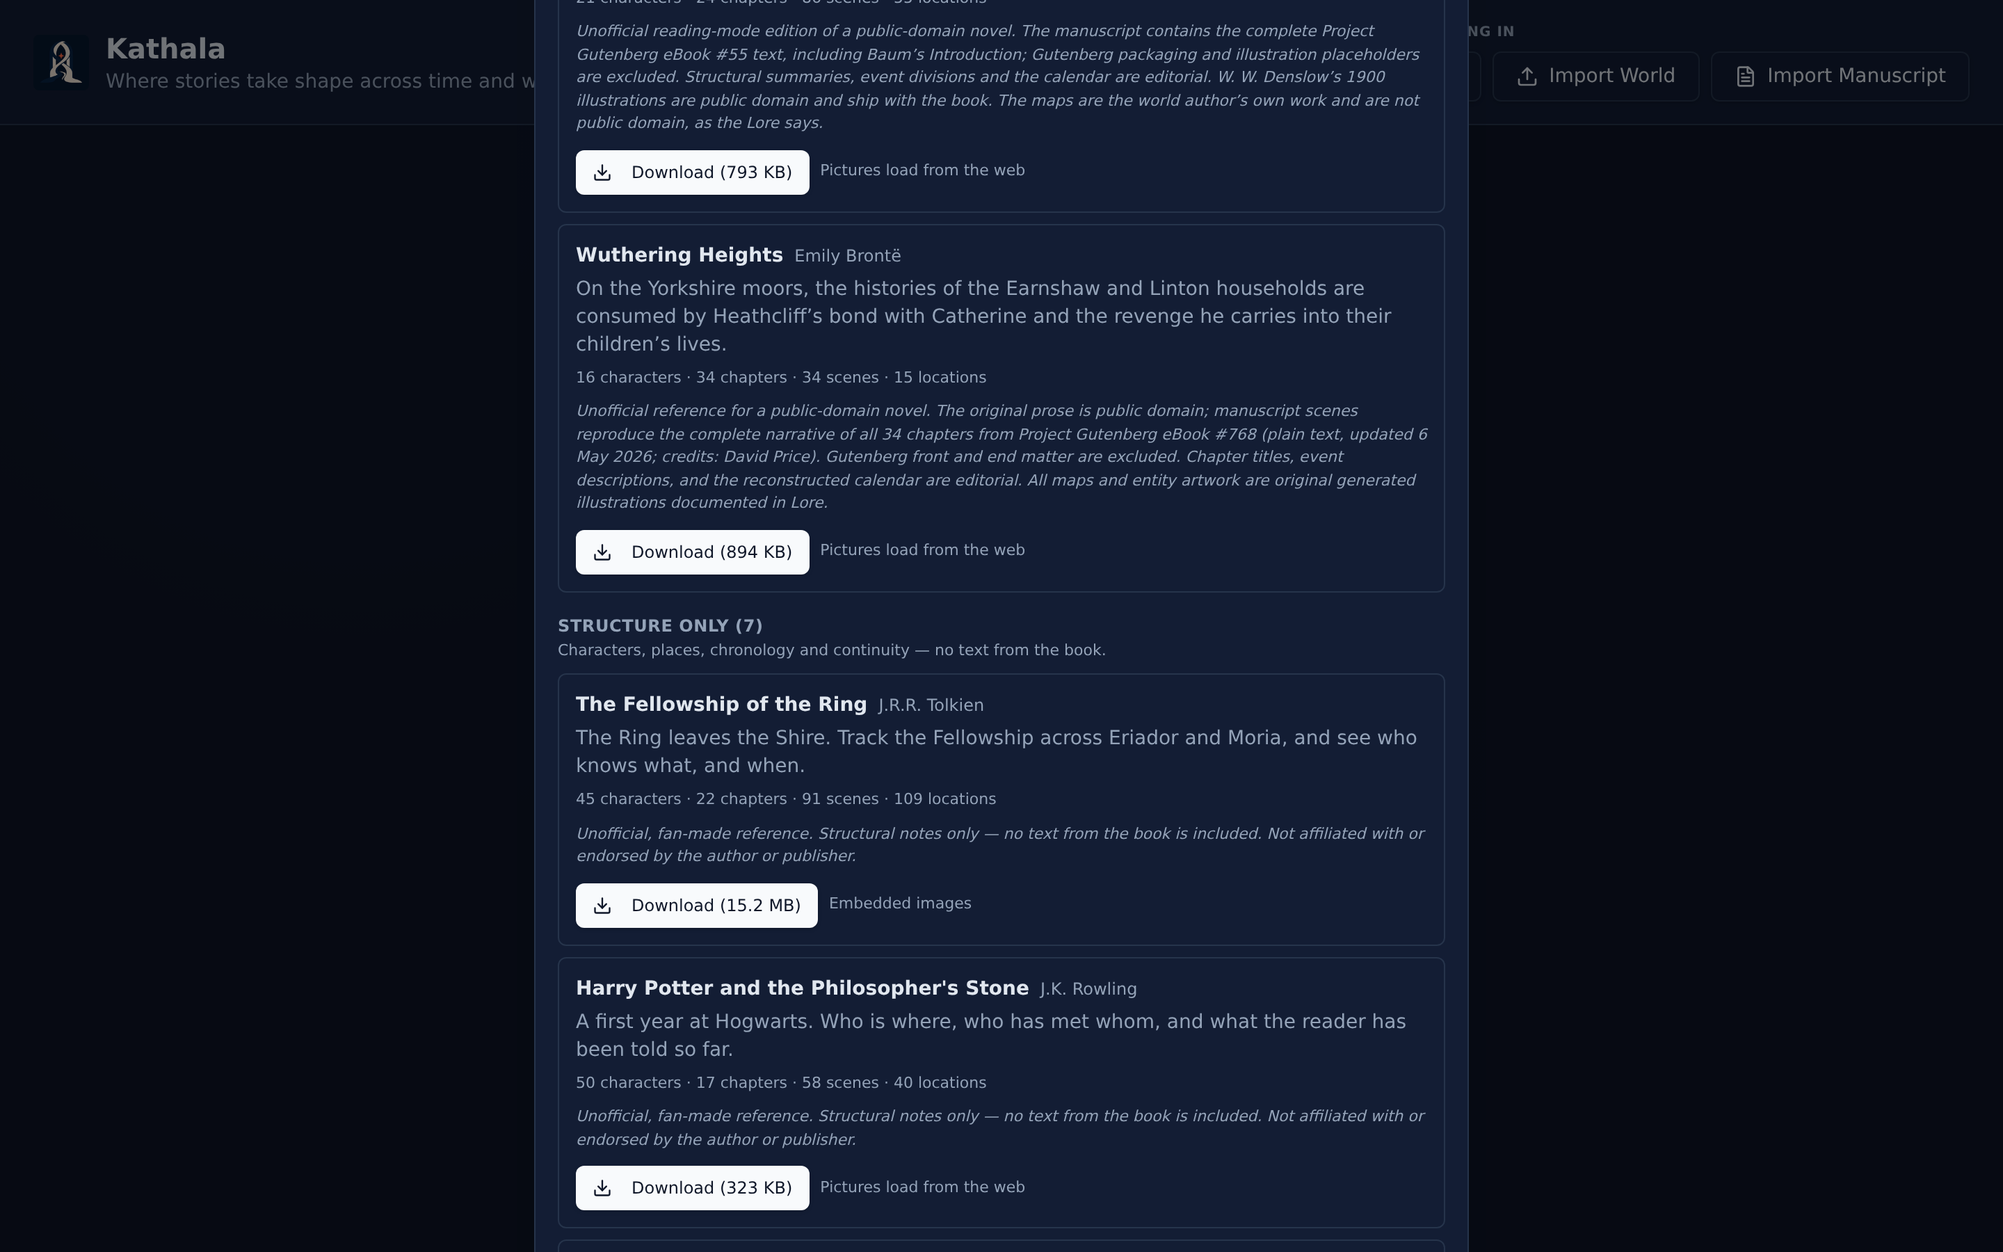
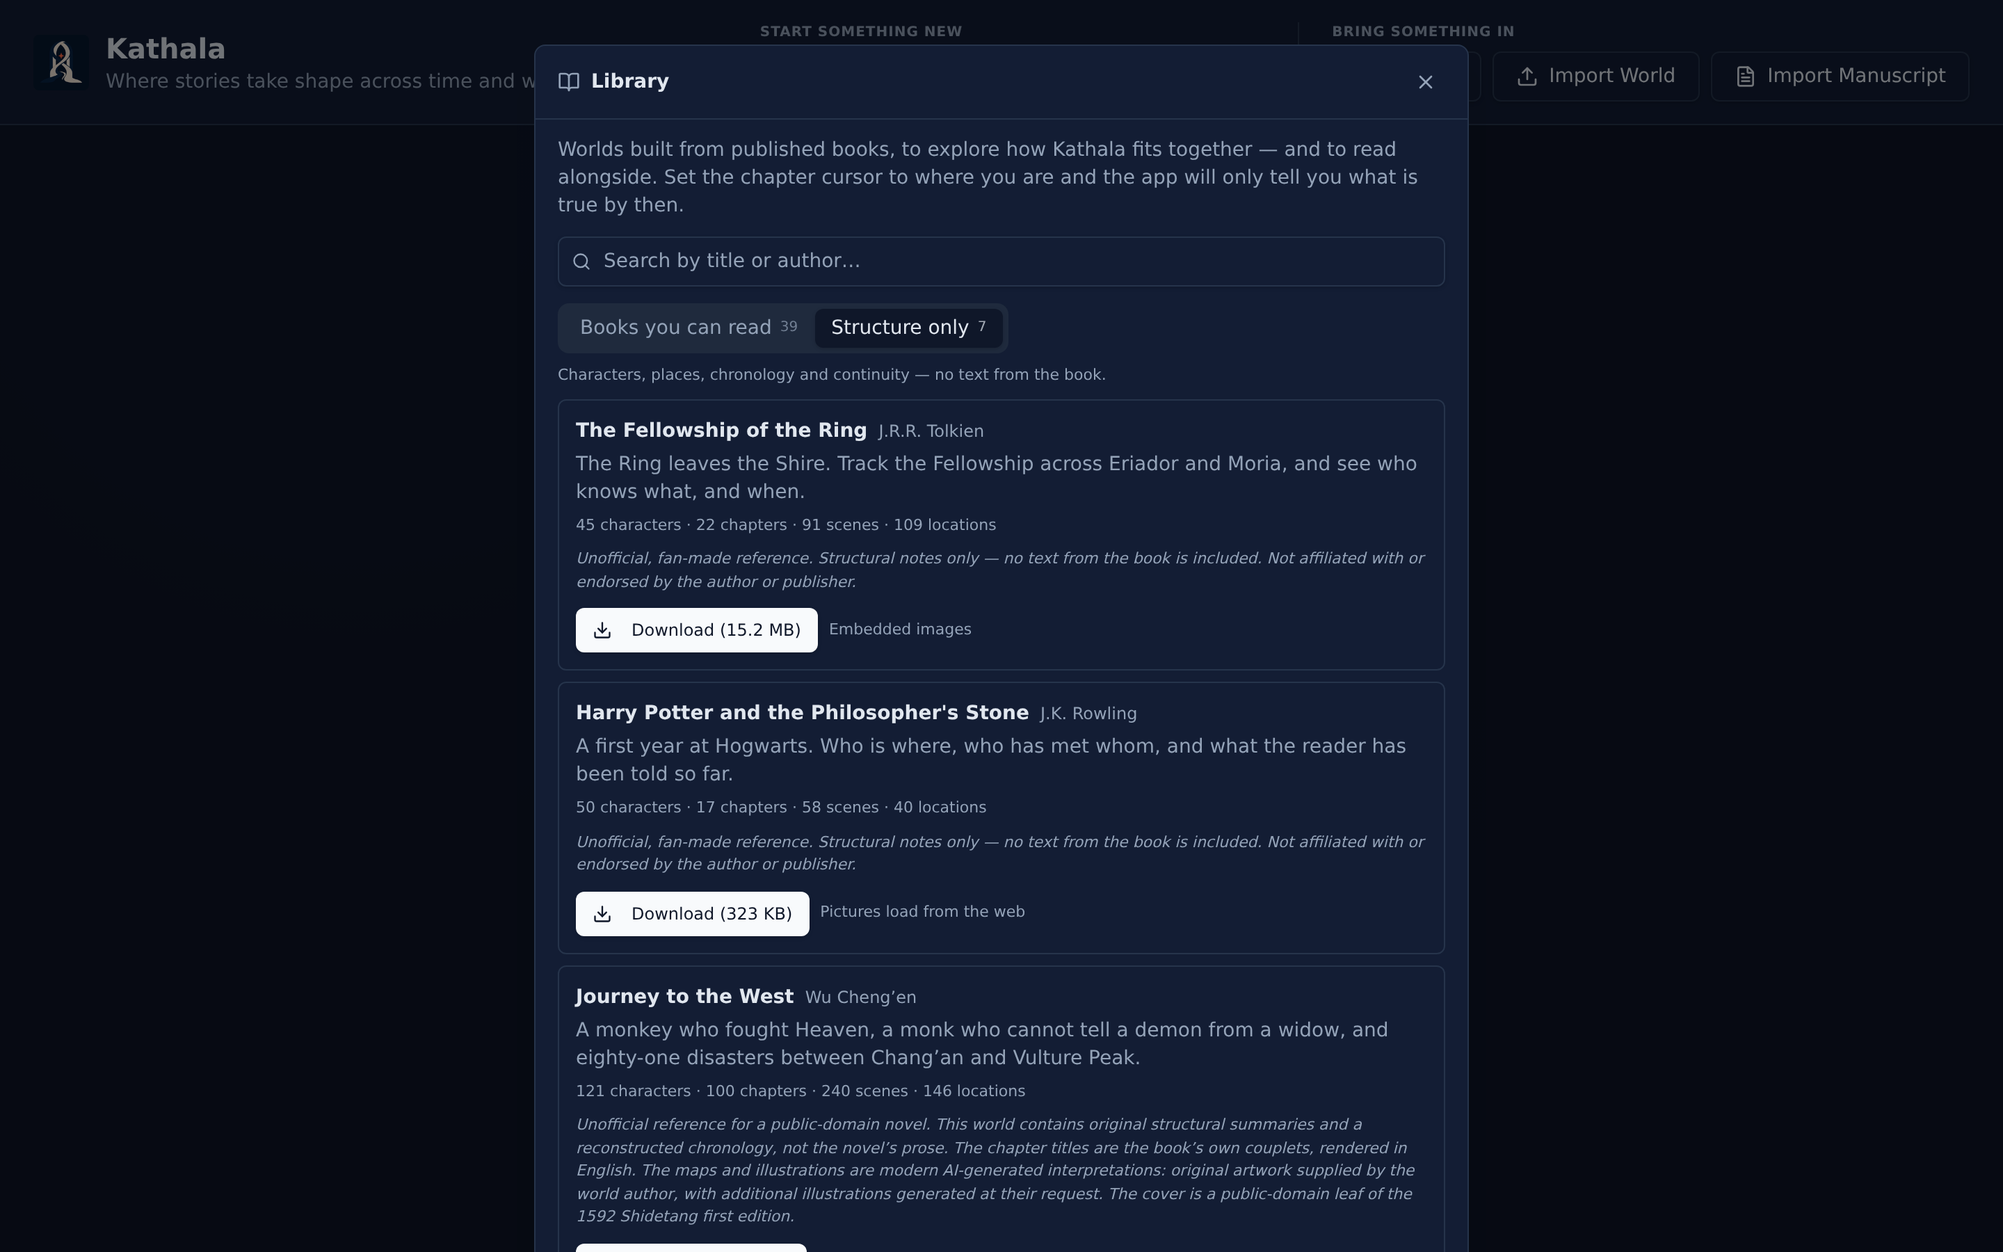
Put the two shelves behind tabs
Asked for: the split as two tabs rather than two stacked sections. The shared
`Tabs` is the one the character screens use, with the same `TabCount`
convention, so the counts read the way they do everywhere else — 39 and 7,
narrowing as you search.

**Tabs hide half the catalogue, which is the point of them and also their one
hazard.** A search for "neuromancer" on the reading shelf finds nothing, and a
bare "no matches" would be a lie about a catalogue that has the book one tab
across. So an emptied tab says how many the other one holds and offers to go
there — and says nothing at all when the other tab is empty too, because the
dialog has already said that nothing matches anywhere.

The reading shelf leads, and the chosen tab survives closing the dialog: a
reader who came for the structure-only worlds is likely to come back for them.

Book titles go back to `h3`. They dropped a level under the section headings the
stacked version had; a tab panel is named by its tab, so there is no heading
above them again.

Two specs had to follow the books. Every world that ships an image bundle is
structure only — the three fan-made references, whose artwork cannot be linked
from anywhere — so the bundle pair in `libraryBrowse` and the coverless card in
`libraryCovers` are not in the DOM until that tab is open. That is the tab
change doing what it says rather than a regression, but it is worth knowing that
a spec looking for a book by text alone now depends on which shelf it is on.
[…]

diff --git a/src/features/worlds/LibraryDialog.tsx b/src/features/worlds/LibraryDialog.tsx
@@ -1,4 +1,4 @@
-import { useEffect, useId, useMemo, useState, type ReactNode } from 'react'
+import { useEffect, useMemo, useState, type ReactNode } from 'react'
 import { BookOpen, Download, Check, X, AlertTriangle, Search } from 'lucide-react'
 import { Button } from '@/components/ui/button'
 import {
@@ -10,6 +10,7 @@ import { libraryCatalogueUrl, bundledCatalogueUrl, libraryCoverUrl } from '@/lib
 import { withBundledFallback } from '@/lib/libraryFallback'
 import { needsNewerApp } from '@/lib/appVersion'
 import { Input } from '@/components/ui/input'
+import { Tabs, TabsContent, TabsList, TabsTrigger, TabCount } from '@/components/ui/tabs'
 
 /**
  * Cover art on a catalogue card.
@@ -33,31 +34,59 @@ function LibraryCover({ src, title }: { src: string; title: string }) {
 }
 
 /**
- * One shelf of the catalogue, under a heading that says what it is.
+ * One tab's worth of the catalogue.
  *
- * A `<section>` with its own heading rather than a styled `<div>`: the two
- * shelves are the answer to "which of these can I actually read", and a screen
- * reader that cannot hear the split cannot answer it. Renders nothing at all
- * when a search has emptied it, so a heading never stands over no books.
+ * The note above the list is not decoration: the tab label says which shelf
+ * this is, and the line under it says what that means — *Structure only* is
+ * meaningless to a reader who has not been told there is text in the other
+ * books.
  */
 function Shelf<T extends { id: string }>({
-  heading, note, entries, render,
+  note, entries, render, empty,
 }: {
-  heading: string
   note: string
   entries: readonly T[]
   render: (entry: T) => ReactNode
+  empty: ReactNode
 }) {
-  const id = useId()
-  if (entries.length === 0) return null
   return (
-    <section aria-labelledby={id} className="mt-4 first:mt-3">
-      <h3 id={id} className="text-xs font-semibold uppercase tracking-wide text-[hsl(var(--muted-foreground))]">
-        {heading} ({entries.length})
-      </h3>
-      <p className="mt-0.5 text-[11px] text-[hsl(var(--muted-foreground))]">{note}</p>
-      <ul className="mt-2 flex flex-col gap-2">{entries.map(render)}</ul>
-    </section>
+    <>
+      <p className="text-[11px] text-[hsl(var(--muted-foreground))]">{note}</p>
+      {entries.length === 0 ? empty : (
+        <ul className="mt-2 flex flex-col gap-2">{entries.map(render)}</ul>
+      )}
+    </>
+  )
+}
+
+/**
+ * What a tab says when a search has emptied it and the other tab has the books.
+ *
+ * Tabs hide half the catalogue, which is the point of them and also their one
+ * hazard: a search for *neuromancer* on the reading shelf finds nothing, and a
+ * bare "no matches" would be a lie about the catalogue — the book is there, one
+ * tab across. So the count comes with a way to go to it.
+ *
+ * When the other tab is empty too, the dialog has already said that nothing
+ * matches anywhere, and this renders nothing rather than repeating it.
+ */
+function Elsewhere({
+  count, query, other, onSwitch,
+}: {
+  count: number
+  query: string
+  other: string
+  onSwitch: () => void
+}) {
+  if (count === 0) return null
+  return (
+    <div className="flex flex-col items-center gap-2 py-6 text-center text-sm text-[hsl(var(--muted-foreground))]">
+      <span>
+        Nothing here matches “{query.trim()}”, but {count === 1 ? 'one book does' : `${count} books do`} under
+        {' '}<strong className="font-medium text-[hsl(var(--foreground))]">{other}</strong>.
+      </span>
+      <Button variant="outline" size="sm" onClick={onSwitch}>Show {other}</Button>
+    </div>
   )
 }
 
@@ -145,6 +174,11 @@ export function LibraryDialog({
   */
   const shown = useMemo(() => browseLibrary(entries ?? [], query), [entries, query])
   const groups = useMemo(() => groupByProse(shown), [shown])
+  /*
+    Which tab is showing. Not reset when the dialog closes: a reader who came
+    for the structure-only worlds is likely to come back for them.
+  */
+  const [shelf, setShelf] = useState<'readable' | 'structure'>('readable')
 
   if (!open) return null
 
@@ -198,7 +232,7 @@ export function LibraryDialog({
 
           <div className="min-w-0 flex-1">
             <div className="flex flex-wrap items-baseline gap-x-2">
-              <h4 className="text-sm font-semibold text-[hsl(var(--foreground))]">{entry.title}</h4>
+              <h3 className="text-sm font-semibold text-[hsl(var(--foreground))]">{entry.title}</h3>
               <span className="text-xs text-[hsl(var(--muted-foreground))]">{entry.author}</span>
             </div>
             <p className="mt-1 text-sm text-[hsl(var(--muted-foreground))]">{entry.blurb}</p>
@@ -370,20 +404,46 @@ export function LibraryDialog({
             only" under a search for "bronte" would read as a broken filter.
           */}
           {groups.grouped ? (
-            <>
-              <Shelf
-                heading="Books you can read"
-                note="The whole text is in the book. Reading mode unlocks the world beside it, a chapter at a time."
-                entries={groups.readable}
-                render={renderEntry}
-              />
-              <Shelf
-                heading="Structure only"
-                note="Characters, places, chronology and continuity — no text from the book."
-                entries={groups.structureOnly}
-                render={renderEntry}
-              />
-            </>
+            <Tabs value={shelf} onValueChange={(v) => setShelf(v as 'readable' | 'structure')} className="mt-3">
+              <TabsList>
+                <TabsTrigger value="readable">
+                  Books you can read<TabCount n={groups.readable.length} />
+                </TabsTrigger>
+                <TabsTrigger value="structure">
+                  Structure only<TabCount n={groups.structureOnly.length} />
+                </TabsTrigger>
+              </TabsList>
+              <TabsContent value="readable">
+                <Shelf
+                  note="The whole text is in the book. Reading mode unlocks the world beside it, a chapter at a time."
+                  entries={groups.readable}
+                  render={renderEntry}
+                  empty={
+                    <Elsewhere
+                      count={groups.structureOnly.length}
+                      query={query}
+                      other="Structure only"
+                      onSwitch={() => setShelf('structure')}
+                    />
+                  }
+                />
+              </TabsContent>
+              <TabsContent value="structure">
+                <Shelf
+                  note="Characters, places, chronology and continuity — no text from the book."
+                  entries={groups.structureOnly}
+                  render={renderEntry}
+                  empty={
+                    <Elsewhere
+                      count={groups.readable.length}
+                      query={query}
+                      other="Books you can read"
+                      onSwitch={() => setShelf('readable')}
+                    />
+                  }
+                />
+              </TabsContent>
+            </Tabs>
           ) : (
             <ul className="mt-3 flex flex-col gap-2">
               {shown.map(renderEntry)}

diff --git a/e2e/libraryBrowse.spec.ts b/e2e/libraryBrowse.spec.ts
@@ -25,24 +25,24 @@ async function openLibrary(page: Page) {
 /**
  * The book titles on screen, in the order they are listed.
  *
- * `h4`, not `h3`: the catalogue is split into two shelves under headings of
- * their own, so a book's title sits a level below the shelf it is on.
+ * The catalogue is behind two tabs, and only the open one is mounted, so this
+ * is the shelf currently showing rather than the whole catalogue.
  */
 const listed = (page: Page) => page.evaluate(() =>
-  Array.from(document.querySelectorAll('h4'))
+  Array.from(document.querySelectorAll('h3'))
     .map((h) => (h.textContent ?? '').trim())
     .filter(Boolean))
 
-/** The book titles on one shelf, by the heading that names it. */
-async function shelf(page: Page, name: RegExp): Promise<string[]> {
-  const region = page.getByRole('region', { name })
-  if (await region.count() === 0) return []
-  const titles = await region.locator('h4').allTextContents()
-  return titles.map((t) => t.trim()).filter(Boolean)
-}
-
 const READABLE = /Books you can read/
 const STRUCTURE = /Structure only/
+
+/** Open one of the two shelves and wait for it to be the one showing. */
+async function openShelf(page: Page, name: RegExp): Promise<string[]> {
+  const tab = page.getByRole('tab', { name })
+  await tab.click()
+  await expect(tab).toHaveAttribute('aria-selected', 'true')
+  return listed(page)
+}
 
 test.describe('Browsing the Library', () => {
   test.describe.configure({ timeout: 180_000 })
@@ -52,11 +52,10 @@ test.describe('Browsing the Library', () => {
     expect((await listed(page)).length, 'the whole catalogue should be listed').toBeGreaterThan(20)
 
     /*
-      Per shelf, since the catalogue is split into two: across the whole dialog
-      the sequence restarts at the second heading, and asserting on the
-      concatenation would fail for the one reason that is not a fault.
+      Per shelf, since the catalogue is split across two tabs: each files from A
+      again, and only the open tab is on screen at all.
       */
-    const shelves = [await shelf(page, READABLE), await shelf(page, STRUCTURE)]
+    const shelves = [await openShelf(page, READABLE), await openShelf(page, STRUCTURE)]
     expect(shelves[0].length, 'nothing on the readable shelf').toBeGreaterThan(20)
     expect(shelves[1].length, 'nothing on the structure-only shelf').toBeGreaterThan(3)
 
@@ -91,27 +90,44 @@ test.describe('Browsing the Library', () => {
   test('the shelf separates what can be read from what can only be explored', async ({ page }) => {
     await openLibrary(page)
 
-    const readable = await shelf(page, READABLE)
-    const structureOnly = await shelf(page, STRUCTURE)
+    // The reading shelf is the one a reader lands on.
+    await expect(page.getByRole('tab', { name: READABLE })).toHaveAttribute('aria-selected', 'true')
 
     // A book whose whole text ships, and one whose notice says it never will.
+    // Each assertion is paired across the two tabs, so a tab that showed the
+    // whole catalogue would fail as loudly as one that showed nothing.
+    const readable = await listed(page)
     expect(readable).toContain('Dracula')
-    expect(structureOnly).not.toContain('Dracula')
-    expect(structureOnly).toContain('Neuromancer')
     expect(readable).not.toContain('Neuromancer')
 
-    // Every book is on exactly one shelf.
-    expect([...readable, ...structureOnly].sort()).toEqual((await listed(page)).sort())
+    const structureOnly = await openShelf(page, STRUCTURE)
+    expect(structureOnly).toContain('Neuromancer')
+    expect(structureOnly).not.toContain('Dracula')
+
+    // The tabs carry their counts, and the two add up to the whole catalogue.
+    const count = async (name: RegExp) =>
+      Number((await page.getByRole('tab', { name }).innerText()).match(/\d+/)?.[0])
+    expect(await count(READABLE)).toBe(readable.length)
+    expect(await count(STRUCTURE)).toBe(structureOnly.length)
+    expect(readable.length + structureOnly.length).toBeGreaterThan(40)
 
     /*
-      A shelf emptied by a search takes its heading with it, rather than leaving
-      "Books you can read (0)" over nothing. Both halves are driven here: the
-      same search that removes one heading must leave the other standing, or an
-      assertion that the heading is gone would pass on a dialog that had closed.
+      The hazard tabs bring with them: half the catalogue is hidden, so a search
+      that finds nothing on the open shelf must not read as a search that found
+      nothing. The book is there, one tab across, and the tab says so and offers
+      to go.
     */
+    await openShelf(page, READABLE)
     await page.getByLabel('Search the library by title or author').fill('neuromancer')
-    await expect(page.getByRole('heading', { name: STRUCTURE })).toBeVisible()
-    await expect(page.getByRole('heading', { name: READABLE })).toHaveCount(0)
+    await expect(page.getByText(/Nothing here matches/)).toBeVisible()
+    await page.getByRole('button', { name: 'Show Structure only' }).click()
+    await expect.poll(() => listed(page)).toEqual(['Neuromancer'])
+
+    // And a search that really matches nothing says so once, without sending
+    // the reader to an empty shelf.
+    await page.getByLabel('Search the library by title or author').fill('zzzzz')
+    await expect(page.getByText(/No book here matches/)).toBeVisible()
+    await expect(page.getByText(/Nothing here matches/)).toHaveCount(0)
   })
 
   test('search narrows by title and by author, and can be cleared', async ({ page }) => {
@@ -163,6 +179,12 @@ test.describe('Browsing the Library', () => {
       four of the thirty worlds *do* ship an image bundle, and must say the
       opposite rather than being labelled as loading from the web.
     */
+    /*
+      Every world that ships a bundle is structure only — the three fan-made
+      references, whose artwork cannot be linked from anywhere — so the pair
+      lives one tab across.
+    */
+    await openShelf(page, STRUCTURE)
     const bundled = page.getByText('Embedded images').first()
     await expect(bundled).toBeVisible()
     const card = bundled.locator('xpath=ancestor::li[1]')
@@ -214,6 +236,7 @@ test.describe('Browsing the Library', () => {
       })
     })
 
+    await openShelf(page, STRUCTURE)
     const card = page.getByText('Embedded images').first().locator('xpath=ancestor::li[1]')
     await card.getByRole('button', { name: /^Download \(/ }).click()
     await expect(page.getByRole('heading', { name: 'Library' })).toHaveCount(0, { timeout: 120_000 })

diff --git a/e2e/libraryCovers.spec.ts b/e2e/libraryCovers.spec.ts
@@ -49,6 +49,12 @@ test('shows cover art for the books that link one', async ({ page }) => {
     doing its job late rather than a regression. Only two entries genuinely have
     no cover, both Tolkien, whose artwork lives inside the image bundle.
   */
+  /*
+    One tab across: the catalogue is split into what can be read and what
+    cannot, and the two coverless worlds are both Tolkien — structure only, and
+    not mounted until their shelf is open.
+  */
+  await page.getByRole('tab', { name: /Structure only/ }).click()
   const noCover = page.locator('li', { hasText: 'The Fellowship of the Ring' }).first()
   await expect(noCover).toContainText('J.R.R. Tolkien')
   await noCover.scrollIntoViewIfNeeded()

diff --git a/docs/GUIDE.md b/docs/GUIDE.md
@@ -287,13 +287,15 @@ books and downloads them straight into your browser. Nothing is uploaded and no
 account is needed — a downloaded world is an ordinary world you own outright,
 which you can edit, export, or delete like any other.
 
-The shelf is in two parts, because the books are two different offers.
+The shelf is behind two tabs, because the books are two different offers. Each
+tab carries its count, so you can see the shape of the catalogue before opening
+either.
 
 ![The Library](images/64-library.png)
 
 **Books you can read** carry the novel's whole text. Download one and reading
 mode gives you the book itself, chapter by chapter, with the world unlocking
-beside it as you go.
+beside it as you go. This is the tab the Library opens on.
 
 **Structure only** are worlds without the prose — characters, places,
 chronology, relationships and continuity, and no text from the book. Some are
@@ -302,16 +304,18 @@ novels still in copyright, where reproducing the text would not be ours to do;
 an edition. They are worth opening to see how a large world is put together,
 and the notice on each card says plainly what it does not contain.
 
-![Where the shelf changes over](images/65-library-structure-only.png)
+![The structure-only tab](images/65-library-structure-only.png)
 
-Within each part the catalogue is **listed alphabetically**, filed past a
-leading *The* or *A* as a shelf would — most of these titles begin with one, so
-*The Woman in White* sits under W rather than in a run of fifteen books under T.
-**Search** narrows both parts at once by title or by author, so "dumas" finds
-both his, and accents are ignored: "bronte" finds Brontë. A part left with
-nothing in it takes its heading away rather than standing over an empty space.
-**Escape** closes the Library, and closes the replace confirm first if that is
-showing.
+Within each tab the catalogue is **listed alphabetically**, filed past a leading
+*The* or *A* as a shelf would — most of these titles begin with one, so *The
+Woman in White* sits under W rather than in a run of fifteen books under T.
+
+**Search** narrows both tabs at once by title or by author, so "dumas" finds
+both his, and accents are ignored: "bronte" finds Brontë. Because a tab hides
+half the catalogue, a search that empties the tab you are on will tell you how
+many books it found on the other one and offer to take you there — so a book is
+never simply missing. **Escape** closes the Library, and closes the replace
+confirm first if that is showing.
 
 Each entry shows its cast, chapter and scene counts, and the download size. Map
 images and portraits are a separate, much larger download, so they sit behind
